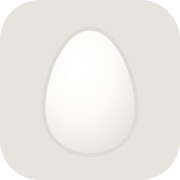
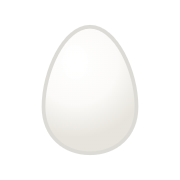
Fix splash flash, English update text, and feedback button placement
App icons had a beige background baked in that mismatched the pure-white
splash screen, so the OS's native launch icon flashed visibly before our
custom splash took over — regenerated all three icon sizes on a white
background to match.

updates.json entries were flat Korean strings, so the notification bell
and popup ignored the language toggle; title/summary are now { ko, en }
objects rendered by the active language.

Repositioned the feedback chat button to sit directly above the
rightmost bottom-nav tab (was floating awkwardly between the tab bar
and content) using a viewport-width formula that keeps it centered
over that tab at both narrow and wide screen widths.

diff --git a/index.html b/index.html
@@ -1385,6 +1385,7 @@ function App() {
   }, []);
 
   // 공지사항 - 배포할 때마다 updates.json 맨 위에 항목 하나만 추가하면 됨
+  // (title/summary는 { ko, en } 형태로 두 언어 다 채워야 함)
   useEffect(() => {
     fetch("./updates.json")
       .then((r) => r.json())
@@ -3752,10 +3753,10 @@ Write a plain, natural 4-6 sentence summary in English distinguishing what went 
               updates.map((u, i) => (
                 <div key={u.version + "-" + i} style={{ padding: "12px 0", borderTop: i > 0 ? `1px solid ${T.rowBorder}` : "none" }}>
                   <div style={{ display: "flex", justifyContent: "space-between", alignItems: "baseline", gap: 8, marginBottom: 4 }}>
-                    <div style={{ fontSize: 13.5, fontWeight: 700, color: T.text }}>{u.title}</div>
+                    <div style={{ fontSize: 13.5, fontWeight: 700, color: T.text }}>{u.title[language] || u.title.ko}</div>
                     <div style={{ fontSize: 10.5, color: T.textMuted, flexShrink: 0 }}>{u.date}</div>
                   </div>
-                  <div style={{ fontSize: 12.5, color: T.textSecondary, lineHeight: 1.6, whiteSpace: "pre-wrap" }}>{u.summary}</div>
+                  <div style={{ fontSize: 12.5, color: T.textSecondary, lineHeight: 1.6, whiteSpace: "pre-wrap" }}>{u.summary[language] || u.summary.ko}</div>
                 </div>
               ))
             )}
@@ -3771,8 +3772,8 @@ Write a plain, natural 4-6 sentence summary in English distinguishing what went 
           <div onClick={(e) => e.stopPropagation()} style={{ background: "#fff", width: "100%", maxWidth: 340, borderRadius: 20, padding: 22, boxSizing: "border-box" }}>
             <div style={{ fontSize: 15, fontWeight: 700, color: T.accent, marginBottom: 4 }}>{L.updatePopupTitle}</div>
             <div style={{ fontSize: 12.5, color: T.textMuted, marginBottom: 14 }}>{updates[0].date}</div>
-            <div style={{ fontSize: 13.5, fontWeight: 700, marginBottom: 8 }}>{updates[0].title}</div>
-            <div style={{ fontSize: 13, color: T.textSecondary, lineHeight: 1.6, marginBottom: 20, whiteSpace: "pre-wrap" }}>{updates[0].summary}</div>
+            <div style={{ fontSize: 13.5, fontWeight: 700, marginBottom: 8 }}>{updates[0].title[language] || updates[0].title.ko}</div>
+            <div style={{ fontSize: 13, color: T.textSecondary, lineHeight: 1.6, marginBottom: 20, whiteSpace: "pre-wrap" }}>{updates[0].summary[language] || updates[0].summary.ko}</div>
             <button
               onClick={() => { setShowUpdatePopup(false); markUpdatesSeen(); }}
               style={{ width: "100%", padding: "10px 0", borderRadius: 12, border: "none", background: T.accent, color: "#fff", fontSize: 14, fontWeight: 600, cursor: "pointer" }}
@@ -3788,7 +3789,7 @@ Write a plain, natural 4-6 sentence summary in English distinguishing what went 
         style={{
           position: "fixed",
           bottom: "calc(env(safe-area-inset-bottom) + 90px)",
-          right: "max(14px, calc(50vw - 196px))",
+          right: "max(calc(12.5vw - 22px), calc(50vw - 179.5px))",
           width: 44,
           height: 44,
           borderRadius: "50%",
@@ -3811,7 +3812,7 @@ Write a plain, natural 4-6 sentence summary in English distinguishing what went 
           style={{
             position: "fixed",
             bottom: "calc(env(safe-area-inset-bottom) + 146px)",
-            right: "max(14px, calc(50vw - 196px))",
+            right: "max(calc(12.5vw - 22px), calc(50vw - 179.5px))",
             width: "calc(100% - 28px)",
             maxWidth: 300,
             background: "#fff",
